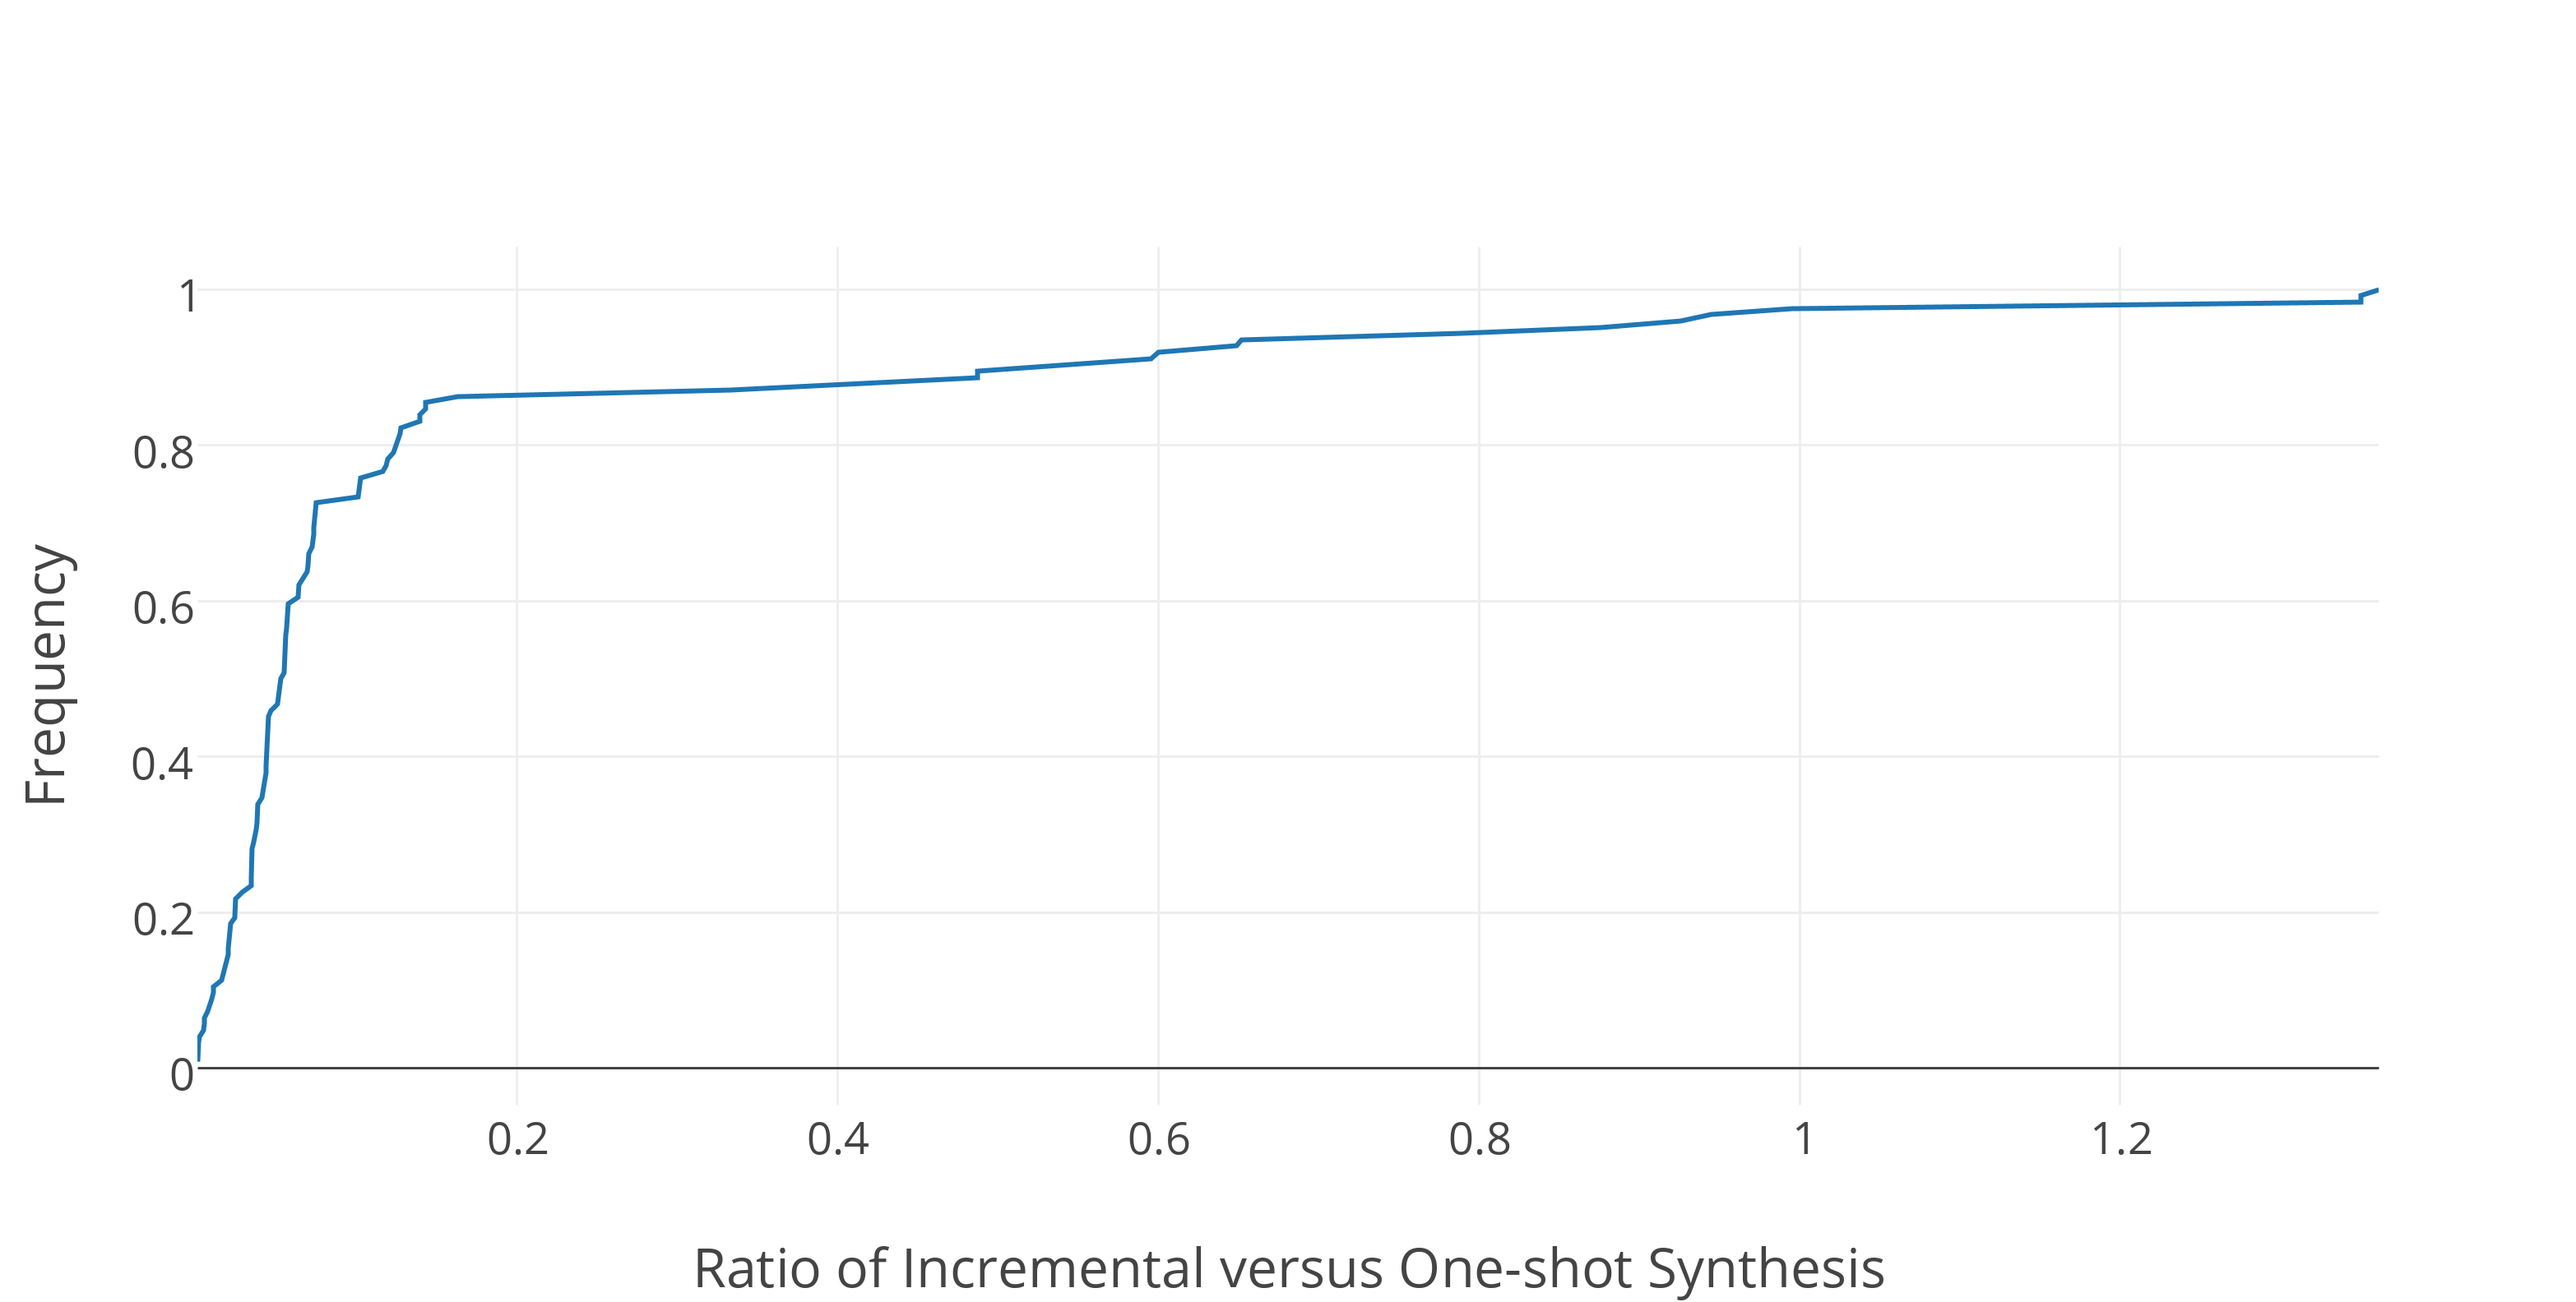
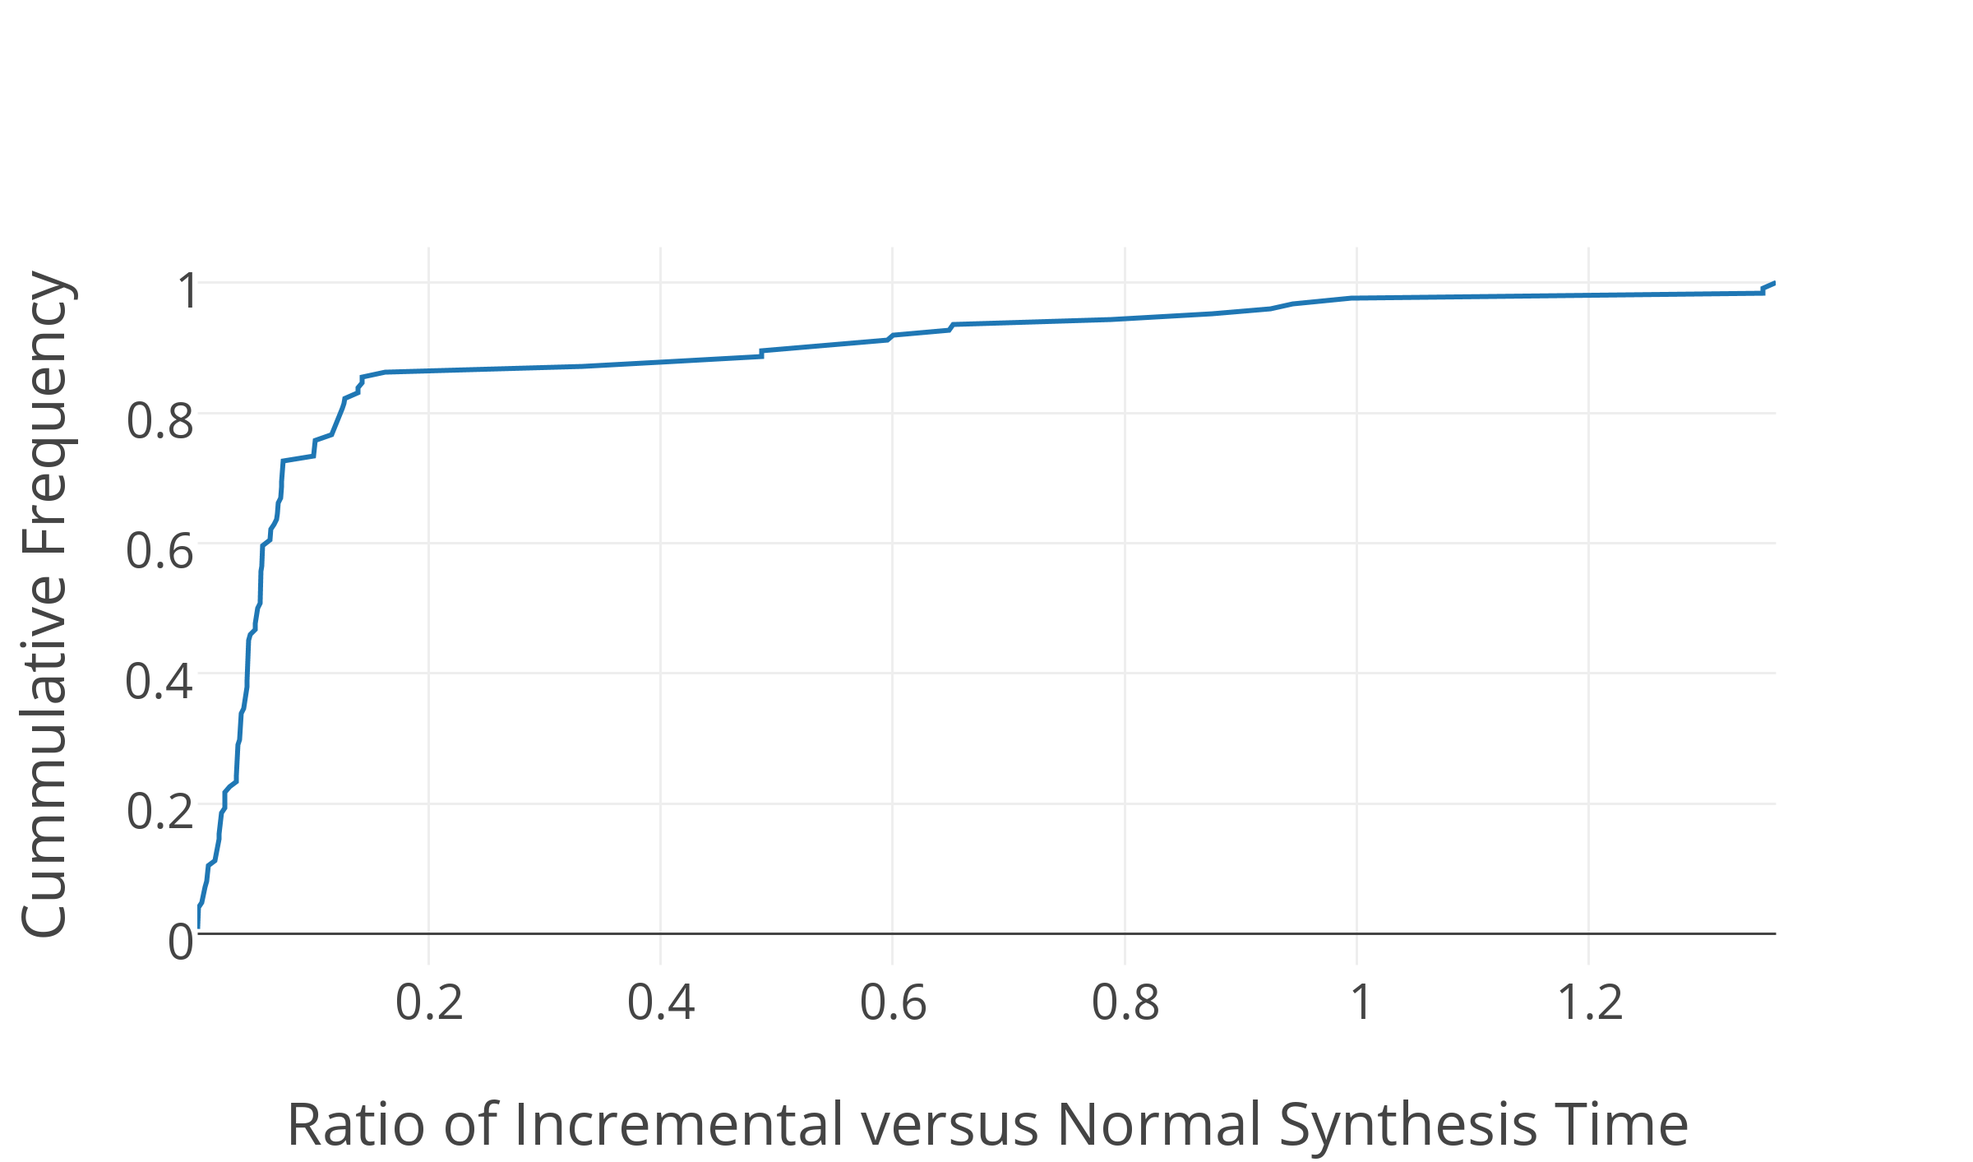
Updated eval draft and graphs

diff --git a/sigcomm16/evaluation.tex b/sigcomm16/evaluation.tex
@@ -9,9 +9,13 @@ We now evaluate the performance of Genesis along various dimensions:
    with respect to synthesis without tactics for different isolation workloads in datacenter topologies? 
    (5) What are the potential speedups of using optimistic synthesis in Genesis for varying workloads? 
 
+\kausik{Needs another pass.}
 We model our experimentation on a multi-tenant datacenter setting. We 
 define a tenant-group flows as the reachability policies specified by a tenant
-for its virtual machines. We evaluate \Name for synthesizing tenant-isolation
+for its virtual machines. The primary metric we consider to evaluate \Name's 
+performance is the time taken for the Z3 solver to find a solution after 
+the system has added constraints for the policies for different workloads. \kausik{Footnote needed to ignore other times.}
+We focus on synthesis of tenant-isolation
 workloads for varying sizes of a fat-tree 
 topology as a representative datacenter network. For tenant isolation, there are
 no isolation policies with packet classes in a tenant-group, but each packet class
@@ -19,67 +23,110 @@ has a isolation policy with all other tenant-group packet classes. This setup en
 that flows of a tenant can share links, but flows of two different tenants cannot share
 any link. 
 For empirical purposes, 
-we perform random allocation
+we randomly
 \footnote{Smarter placement of tenants could speed-up synthesis as tenant endpoints would
 	be located closer to each other. The placement algorithm can be used to develop specialised tactics.}
- of a tenant's virtual machines to edge switches'
-so that the tenant-group flows have random endpoints spread across the datacenter. All 
-experiments were conducted using a Cloudlab machine with 32-core Intel-Xeon 2.40GHz CPU and 128Gb of RAM. 
+  pack the tenant's virtual machines on racks connected to edge switches such that
+   we do not place virtual machines of different tenants on the same rack which would 
+   cause isolation to fail at the edge switch itself (due to bounded number of links at
+   the edge switch). Operators can aggregate a tenant's traffic from one rack to
+another to a single reachability policy and find pathways for communication amongst the multiple
+machines in different racks. 
+All experiments were conducted using a Cloudlab machine with 32-core Intel-Xeon 2.40GHz CPU and 128Gb of RAM. 
 \subsection{Isolation Workloads}
-Figure XXX shows the synthesis time (we cap the maximum time at 5000s) for different number of packet classes with varying tenant-group sizes in 80 node fat-tree topology (pod size = 8) without tactics. For example, the total packet classes is 50, and group size is 5 means there are $50/5 = 10$ tenants, and each tenant flow in the group is isolated with all other tenant flows. For a fixed group size, we can observe that as number of packet classes increases, the synthesis time increases expotentially, as expected. As we decrease group size, we can observe that synthesis time increases greatly for the same number of policies, as the number of tenants increases, consequently the problem is more constrainted due to increased number of isolation policies. Group size = 1 denotes the extreme case where all flows are isolated to one other. 
+The synthesis time (we cap the maximum time at 5000s) for a range of
+ packet classes with varying tenant-group sizes in 80 node fat-tree topology (pod size = 8) 
+ without tactics is shown in \cref{fig:no-tactic}. For example, the total packet classes is 50, and group size is 5 means there
+  are $50/5 = 10$ tenants, and each tenant flow in the group is isolated with all other tenant
+   flows. For a fixed group size, we can observe that as number of packet classes increases,
+    the synthesis time increases expotentially, as expected. As we decrease group size,
+     we can observe that synthesis time increases greatly for the same number of policies,
+      as the number of tenants increases, consequently the problem is more constrainted 
+      due to increased number of isolation policies. 
+      Group size = 1 denotes the extreme case where all flows are isolated to one other. 
+      
+%\begin{figure*}
+%	\centering
+%	\subfloat[subcaption 1]{\includegraphics[width=0.66\columnwidth]{figures/no-tactic-isolation-plot.png}}
+%	\subfloat[subcaption 2]{\includegraphics[width=0.66\columnwidth]{figures/no-tactic-isolation-plot.png}}
+%	\subfloat[subcaption 3]{\includegraphics[width=0.66\columnwidth]{figures/no-tactic-isolation-plot.png}}
+%	\caption{\label{fig:trans_actions}
+%		Some caption text here. This is the full textwidth.}
+%\end{figure*}
 
-Figure XXY shows the average synthesis time per flow for isolation workloads on increasing fat-tree topology sizes. For this, we fix the group size to 5 and the {\em datacenter packing} ratio to $0.25$. We use the ratio of number of packet classes to number of edge-aggregate links to model the datacenter packing because, in the case of all-to-all isolation, the maximum number of different sources and destination that can be placed at a edge switch is the number of edge-aggregate links at the switch, and thus we cannot have more than $32*4$ tenants in a 80-node topology. As the data packing ratio increases, the synthesis time grows expotentially, and thus, keeping the ratio constant across topologies preserves the relative difficultly of the problem. We are able to synthesize 12 tenants with tenant-group size 5 in a 125-node topology in 124 seconds. We can also observe that average time per flow increases expotential with increasing topology, thus the synthesis problem is expotential with number of nodes as well. 
+
+\begin{figure}[H]
+	\includegraphics[width=\columnwidth]{figures/no-tactic-isolation-plot.png}
+	\caption{Synthesis time (log scale) with no tactics for range of packet classes and different tenant-group sizes.}
+	\label{fig:no-tactic}
+\end{figure}
+
+\begin{figure}[H]
+		\includegraphics[width=\columnwidth]{figures/no-tactic-topo.png}
+		\caption{Average synthess time per packet class with datacenter packing ratio 0.25 for different fat-tree topology sizes.}
+		\label{fig:no-tactic-topo}
+\end{figure}
+
+
+The average synthesis time per class for isolation workloads
+ on increasing fat-tree topology sizes is shown in \cref{fig:no-tactic-topo}. For this, we fix the group size to 5 and
+  the {\em datacenter packing} ratio to $0.25$. We use the ratio of number 
+  of packet classes to number of edge-aggregate links to model the datacenter 
+  packing because, in the case of all-to-all isolation, the maximum number 
+  of different sources and destination that can be placed at a edge switch is the number of edge-aggregate links at the switch, and thus we cannot have more than $32*4$ tenants in a 80-node topology. As the data packing ratio increases, the synthesis time grows expotentially (fig XXX), 
+  and thus, keeping the ratio constant across topologies preserves the 
+  relative difficulty of the problem. We are able to synthesize 12 tenants 
+  with tenant-group size 5 in a 125-node topology in 124 seconds. 
+  We can also observe that average time per flow increases expotential 
+  with increasing topology, thus the synthesis problem is expotential with number of nodes as well. 
+
+\begin{figure*}
+		\centering
+		\subfloat[No Edge Tactic]{\includegraphics[width=\columnwidth]{figures/no-edge-tactic-isolation-plot.png}}
+		\subfloat[Valley-free Routing Tactic]{\includegraphics[width=\columnwidth]{figures/eacae-isolation-plot.png}}
+	\caption{\label{fig:tactic-isolation}
+				Synthesis time (log scale) for range of packet classes and different tenant-group sizes with tactics.}
+\end{figure*}
+		
 
 \subsection{Tactic Reductions}
-We can observe that synthesis times for isolation workloads for normal synthesis are not very promising.
+We can observe that synthesis times for isolation workloads for normal synthesis are not 
+very promising, due to the large solution space of forwarding plane configurations.
+\Cref{fig:tactic-isolation}(a) shows the synthesis time for isolation workloads using the no edge tactic 
+($\neg(e .^* e .^* e)$). We achieve a best-case reduction of 9.5x over synthesis with tactics. 
+Using this tactic, we are able to synthesize 12 tenants with 5 packet classes each in under 200
+seconds.
 
+We evaluate the same isolation workloads using the tactic $\neg (e .^5 .^* e) \wedge \neg (e .^* e .^* e)$
+which ensures {\em valley-free routing}, that is paths are of the form $eacae$ in \cref{fig:tactic-isolation}(b). While this is a highly
+restrictive tactic, we were able to synthesize the forwarding rules for each workload in under 20 seconds, 
+and can achieve a best-case reduction of 400x compared to synthesis with no tactics.
+ These two experiments demonstrate the utility of tactics in real-life workloads. 
+
+
+%\begin{figure*}
+%	\includegraphics[height=7.5cm]{figures/tactic-reduction.png}
+%	\caption{Graph used to show the reduction of terms using different tactics w.r.t the total number of terms}
+%	\label{fig:tactic-reduction}
+%\end{figure*}
+%
 %\begin{figure}
-%	
+%	\includegraphics[width=\columnwidth]{figures/isolation-tactics.png}
+%	\caption{Graph used to application of tactics for a isolation workload (percentage isolation w.r.t topology 25\%) and different topology sizes. An interesting observation in the graph is that tactics need not always help in reduction of constraints (One of the tactics, not  a very natural one) leads to more time to synthesis without tactics.}
+%	\label{fig:isolation-tactics}
 %\end{figure}
+%
+%\subsection{Optimistic Synthesis}
 \begin{figure}
-	\includegraphics[width=\columnwidth]{figures/reach-way-tactic.png}
-	\caption{Graph used to compare time taken for reach v/s waypoint policies in a 45-node fat-tree topology and emphasise due to the generality of the approach we cannot solve reachability using classic algorithms. We therefore need a more heavyweight approach that is slowish. The tactic plot is to show improvements of solving reach using a tactic}
-	\label{fig:reach-way-tactic}
-\end{figure}
-\begin{figure}
-	\includegraphics[width=\columnwidth]{figures/reach-topo.png}
-	\caption{Graph used to compare time taken for reachability policies for varying topology sizes}
-	\label{fig:reach-topo}
-\end{figure}
-
-
-\begin{figure}
-	\includegraphics[width=\columnwidth]{figures/performance-isolation-groups-log-scale.png}
-	\caption{Graph used to compare time taken for solving isolation policies for varying workloads in a 80 node fat-tree topology}
-	\label{fig:isolation}
-\end{figure}
-
-\subsection{Tactic Reductions}
-\begin{figure*}
-	\includegraphics[height=7.5cm]{figures/tactic-reduction.png}
-	\caption{Graph used to show the reduction of terms using different tactics w.r.t the total number of terms}
-	\label{fig:tactic-reduction}
-\end{figure*}
-
-\begin{figure}
-	\includegraphics[width=\columnwidth]{figures/isolation-tactics.png}
-	\caption{Graph used to application of tactics for a isolation workload (percentage isolation w.r.t topology 25\%) and different topology sizes. An interesting observation in the graph is that tactics need not always help in reduction of constraints (One of the tactics, not  a very natural one) leads to more time to synthesis without tactics.}
-	\label{fig:isolation-tactics}
-\end{figure}
-
-\subsection{Optimistic Synthesis}
-\begin{figure*}
-	\includegraphics[height=7.5cm]{figures/opt-cdf.png}
-	\caption{Graph used to plot the cummulative frequency for speedup achieved by optimistic synthesis (Speedup = optimistic/normal)}
+	\includegraphics[width=\columnwidth]{figures/opt-cdf.png}
+	\caption{Cummulative frequency distribution for speedup achieved by optimistic synthesis.}
 	\label{fig:opt-cdf}
-\end{figure*}
-
-\subsection{Incremental Synthesis}
-\begin{figure*}
-	\includegraphics[height=7.5cm]{figures/incremental-cdf.png}
-	\caption{Graph used to plot the cummulative frequency for ratio of incremental synthesis/one-shot synthesis.}
+\end{figure}
+\begin{figure}
+	\includegraphics[width=\columnwidth]{figures/incremental-cdf.png}
+	\caption{Cummulative frequency distribution for ratio of incremental synthesis/one-shot synthesis.}
 	\label{fig:incremental-cdf}
-\end{figure*}
+\end{figure}
 
 
 %\caption{Synthesis Time for varying number of reachability (with and without tactics) and waypoints policies for a 45 node fat-tree topology}

diff --git a/sigcomm16/genesis.tex b/sigcomm16/genesis.tex
@@ -18,7 +18,9 @@
 \newcommand{\name}{Genesis\xspace}
 \newcommand{\Name}{\name}
 \newcommand{\pushcode}[1][1]{\hskip\dimexpr#1\algorithmicindent\relax}
+
 \usepackage{caption}
+\usepackage{enumitem}
 %\usepackage{usenix}
 \usepackage{epsfig}
 %\usepackage[TABBOTCAP]{subfigure}
@@ -31,9 +33,8 @@
 \usepackage{colortbl}
 \usepackage{enumitem}
 \usepackage[export]{adjustbox}
-\usepackage{subfigure}
-
-
+\usepackage{subfig}
+\input{defs}
 %\usepackage[small,compact]{titlesec}
 %\usepackage[font={bf,small}]{caption}
 
